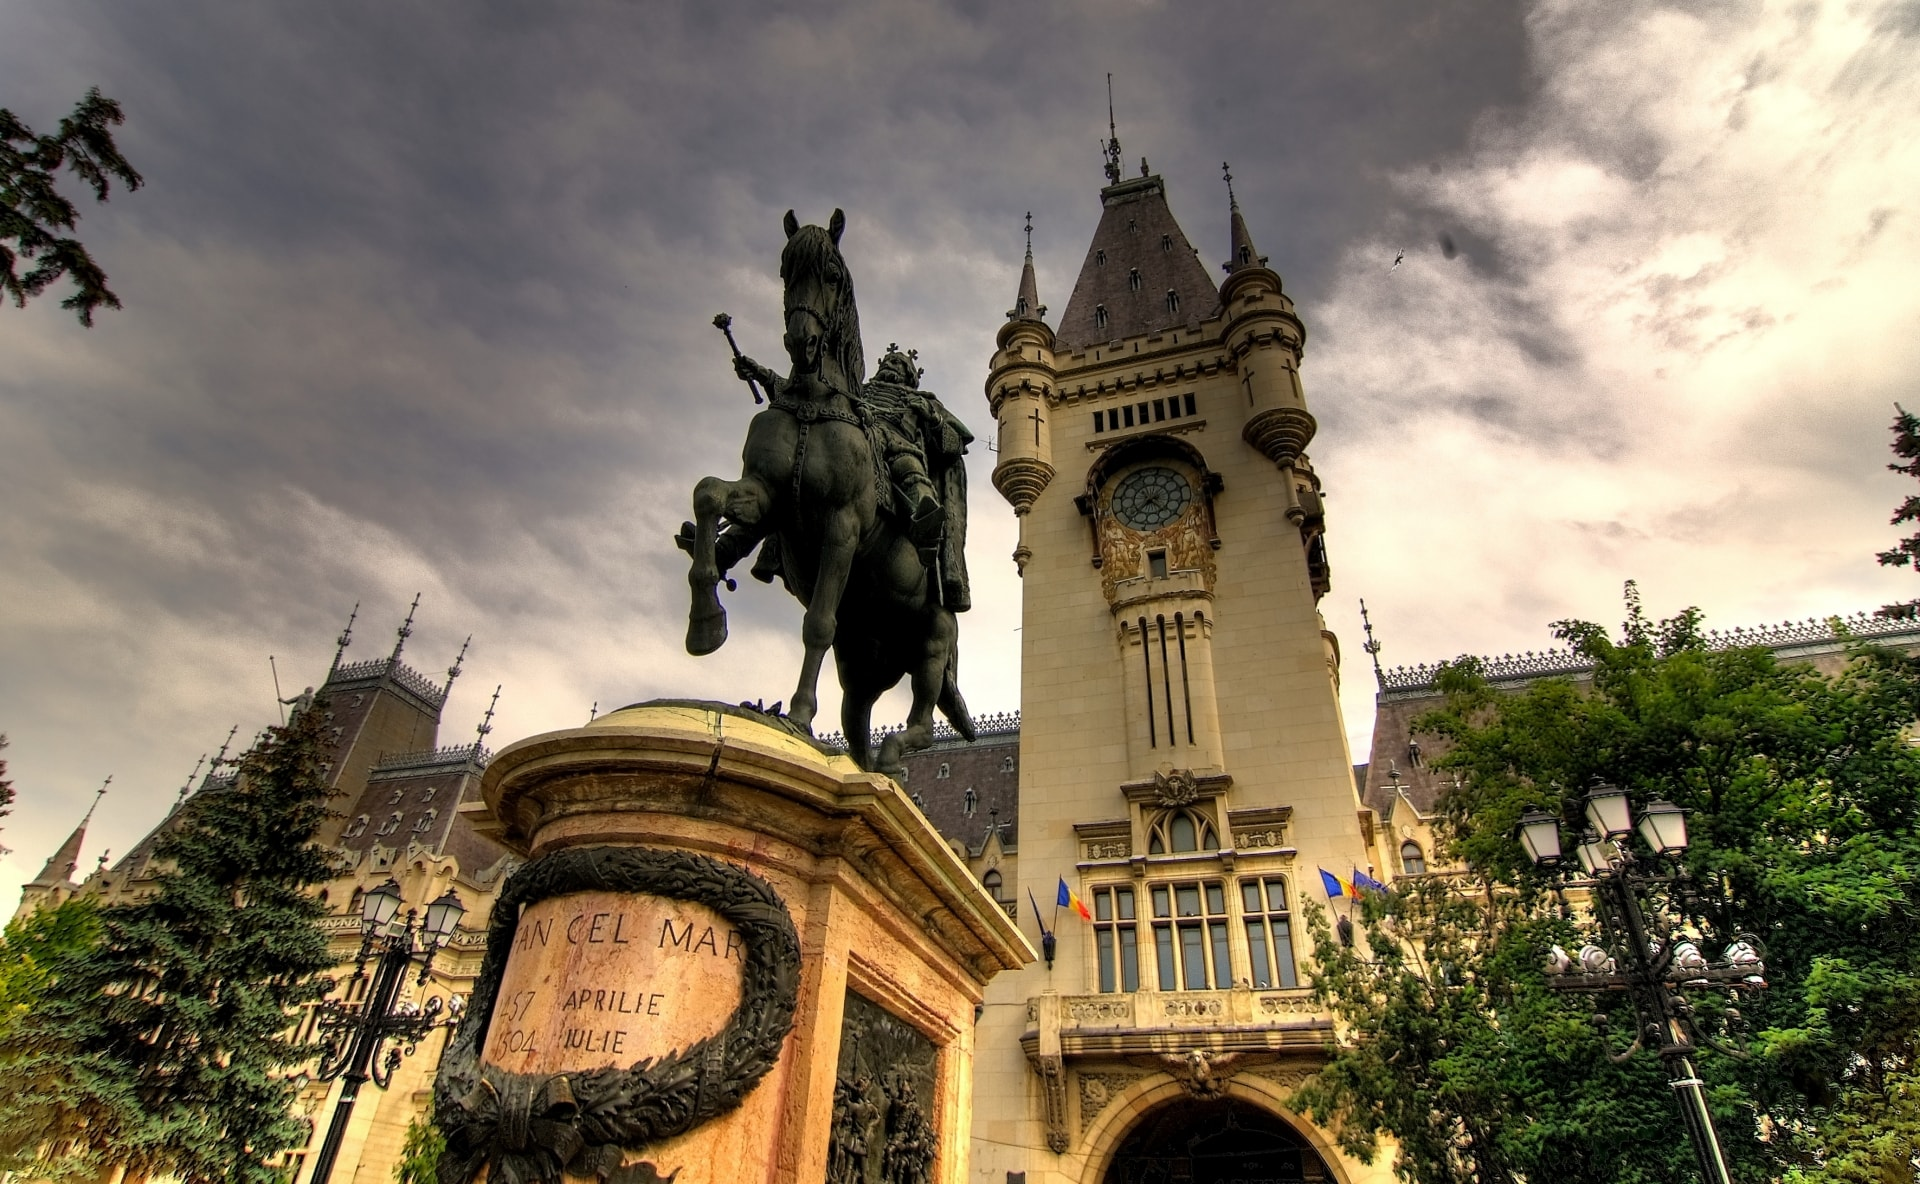
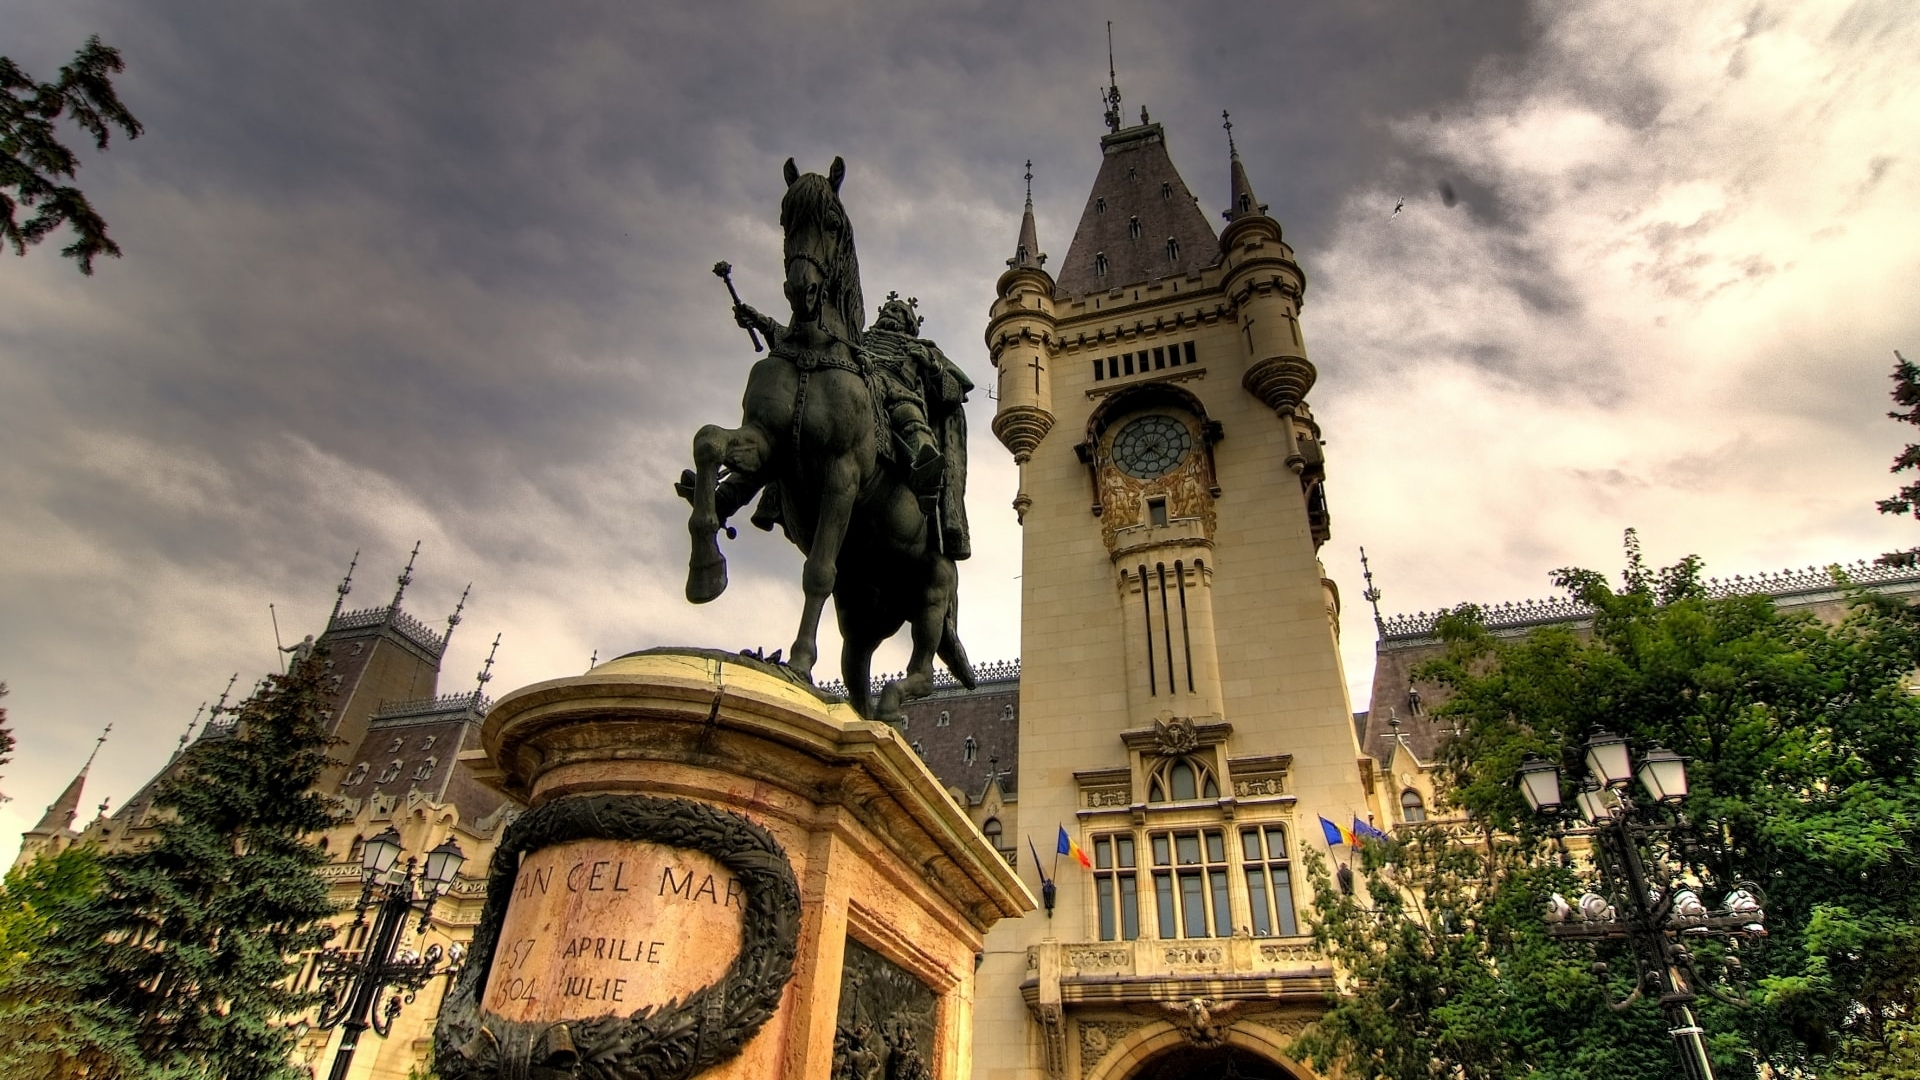
Minor changes
* Crop Iasi background picture
* Update the arrow position
* Update the social links

diff --git a/_sass/partials/_intro.scss b/_sass/partials/_intro.scss
@@ -51,7 +51,7 @@
 .explore {
     margin-left: -16px;
     position: absolute;
-    bottom: 10px;
+    bottom: -10px;
     left: 50%;
     animation: callToAction 3.5s linear 0s infinite;
     @media (max-width: 767px) {
